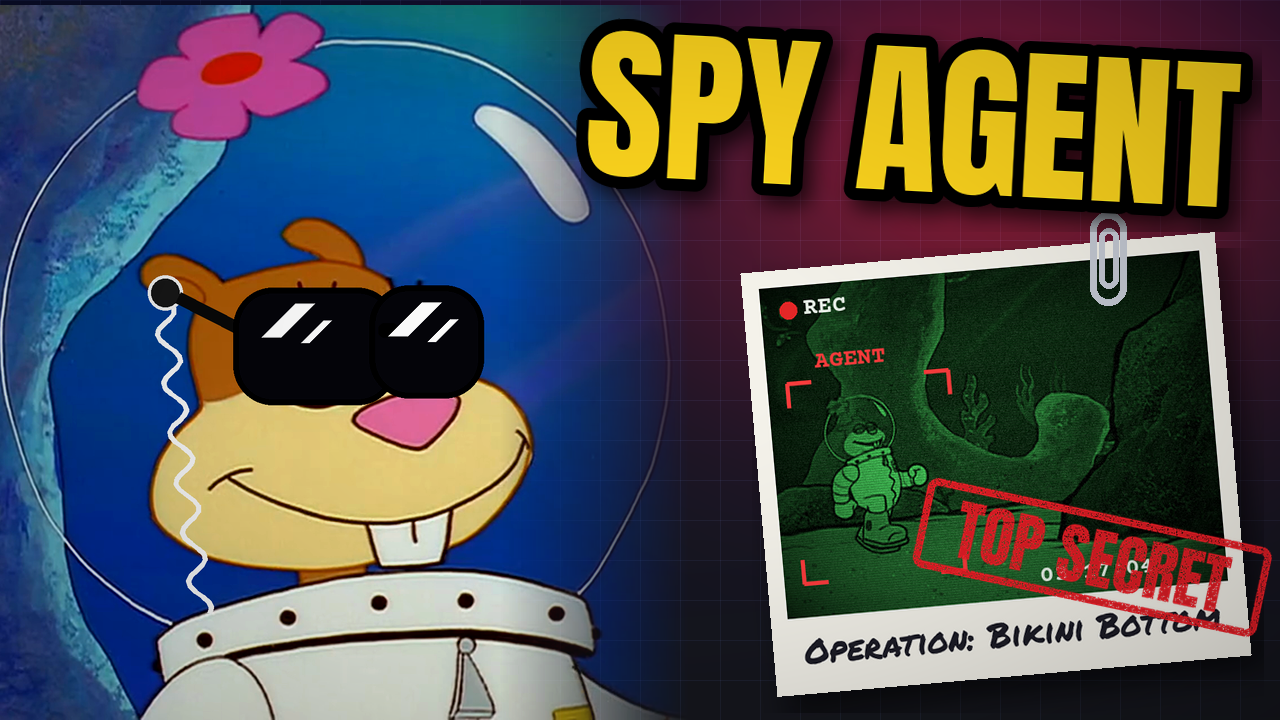
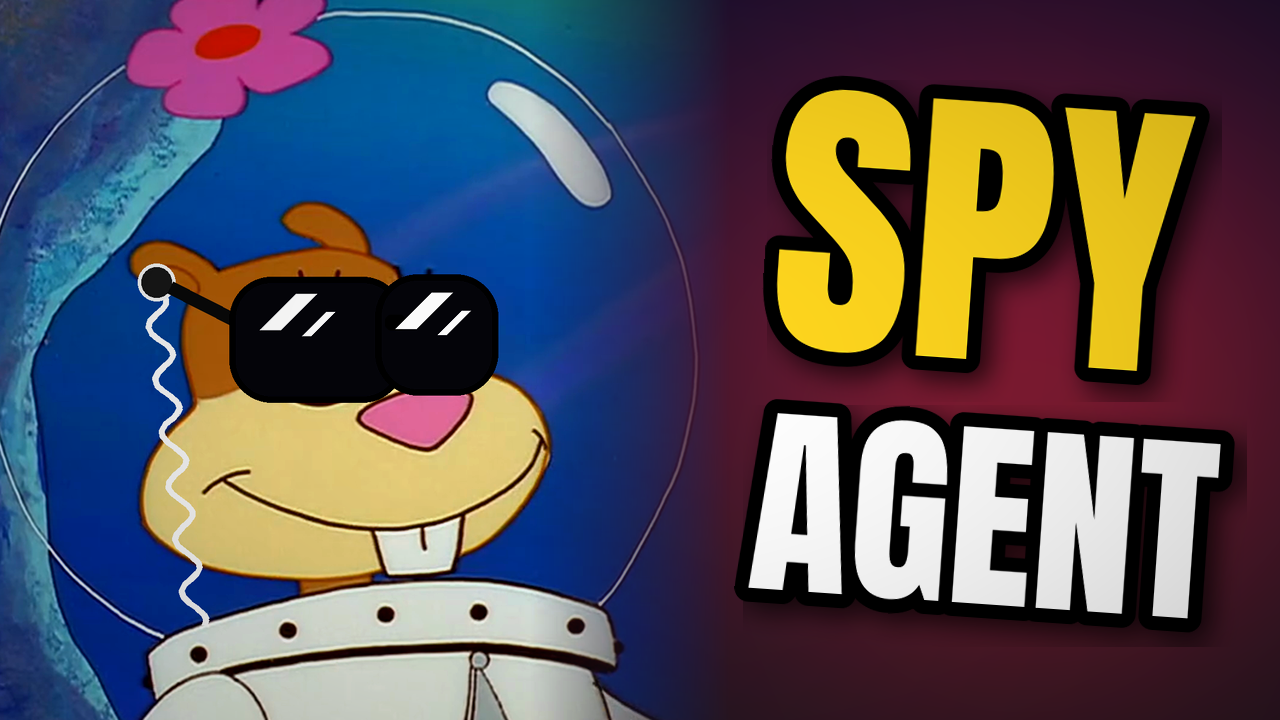
Simplify spy-agent thumbnail
Claude-Session: https://claude.ai/code/session_019dHvg1x6KTCWVLRYKwDemY

diff --git a/sandy_video/tools/thumb_spy_simple.py b/sandy_video/tools/thumb_spy_simple.py
@@ -1,0 +1,45 @@
+from PIL import Image, ImageDraw, ImageFont, ImageFilter, ImageEnhance
+import numpy as np
+F="fonts/"; W,H=1280,720
+def font(n,s): return ImageFont.truetype(F+n,s)
+
+# plain background: dark navy with a soft red glow behind the text
+y=np.linspace(0,1,H)[:,None]; x=np.linspace(0,1,W)[None,:]
+bg=np.zeros((H,W,3)); bg[...,0]=14+8*y; bg[...,1]=16+6*y; bg[...,2]=34+14*(1-y)
+glow=np.exp(-(((x-.8)/.3)**2+((y-.5)/.5)**2)); bg[...,0]+=110*glow; bg[...,1]+=8*glow; bg[...,2]+=10*glow
+canvas=Image.fromarray(bg.clip(0,255).astype(np.uint8)).convert("RGBA")
+
+# Sandy with agent shades + earpiece
+s=Image.open("work/frames/sandy_smirk.png").convert("RGBA"); d=ImageDraw.Draw(s)
+pts=[(345+70*t+18*np.sin(t*40),690+560*t) for t in np.linspace(0,1,60)]
+d.line(pts,fill=(235,235,235,255),width=10,joint="curve")
+d.ellipse((318,650,380,712),fill=(30,30,30,255),outline=(230,230,230,255),width=6)
+d.line([(480,745),(372,690)],fill=(18,18,18,255),width=22)
+for b in ((470,672,760,880),(712,668,915,868)):
+    d.rounded_rectangle(b,radius=70,fill=(14,14,18,255),outline=(5,5,5,255),width=10)
+d.rounded_rectangle((728,735,762,760),radius=10,fill=(10,10,10,255))
+for (x0,y0) in ((520,700),(745,698)):
+    d.polygon([(x0,y0+60),(x0+60,y0),(x0+95,y0),(x0+35,y0+60)],fill=(255,255,255,120))
+    d.polygon([(x0+70,y0+70),(x0+110,y0+30),(x0+125,y0+30),(x0+85,y0+70)],fill=(255,255,255,90))
+s=s.crop((40,180,1300,1440)).resize((760,760),Image.LANCZOS)
+s=ImageEnhance.Color(s).enhance(1.3); s=ImageEnhance.Contrast(s).enhance(1.1)
+m=np.full((760,760),255,np.float32); fade=np.clip((np.arange(760)-560)/200,0,1); m*=(1-fade)[None,:]
+s.putalpha(Image.fromarray(m.astype(np.uint8)))
+canvas.alpha_composite(s,(-30,-20))
+
+# stacked headline
+def word(txt,size,fill):
+    t=Image.new("RGBA",(900,400),(0,0,0,0)); td=ImageDraw.Draw(t); f=font("Anton.ttf",size)
+    bb=td.textbbox((0,0),txt,font=f,stroke_width=14); td.text((30-bb[0],30-bb[1]),txt,font=f,fill=fill,stroke_width=14,stroke_fill=(0,0,0))
+    return t.crop(t.getbbox())
+def place(t,cx,top,rot):
+    t=t.rotate(rot,expand=True,resample=Image.BICUBIC)
+    sh=Image.new("RGBA",t.size,(0,0,0,0)); sh.putalpha(t.split()[3].point(lambda a:a*0.7)); sh=sh.filter(ImageFilter.GaussianBlur(12))
+    x=int(cx-t.size[0]/2); canvas.alpha_composite(sh,(x+10,top+10)); canvas.alpha_composite(t,(x,top))
+place(word("SPY",300,(255,214,30)),985,70,-4)
+place(word("AGENT",205,(255,255,255)),985,395,-4)
+
+out=np.array(canvas.convert("RGB")).astype(np.float32)
+yy,xx=np.mgrid[0:H,0:W]; v=1-0.28*(((xx-W/2)/(W/1.4))**2+((yy-H/2)/(H/1.3))**2)
+im=Image.fromarray((out*v[...,None]).clip(0,255).astype(np.uint8))
+im.save("/home/user/main/sandy_video/thumbnail_spy.png"); im.resize((320,180),Image.LANCZOS).save("work/thumb_spy_small.png")
